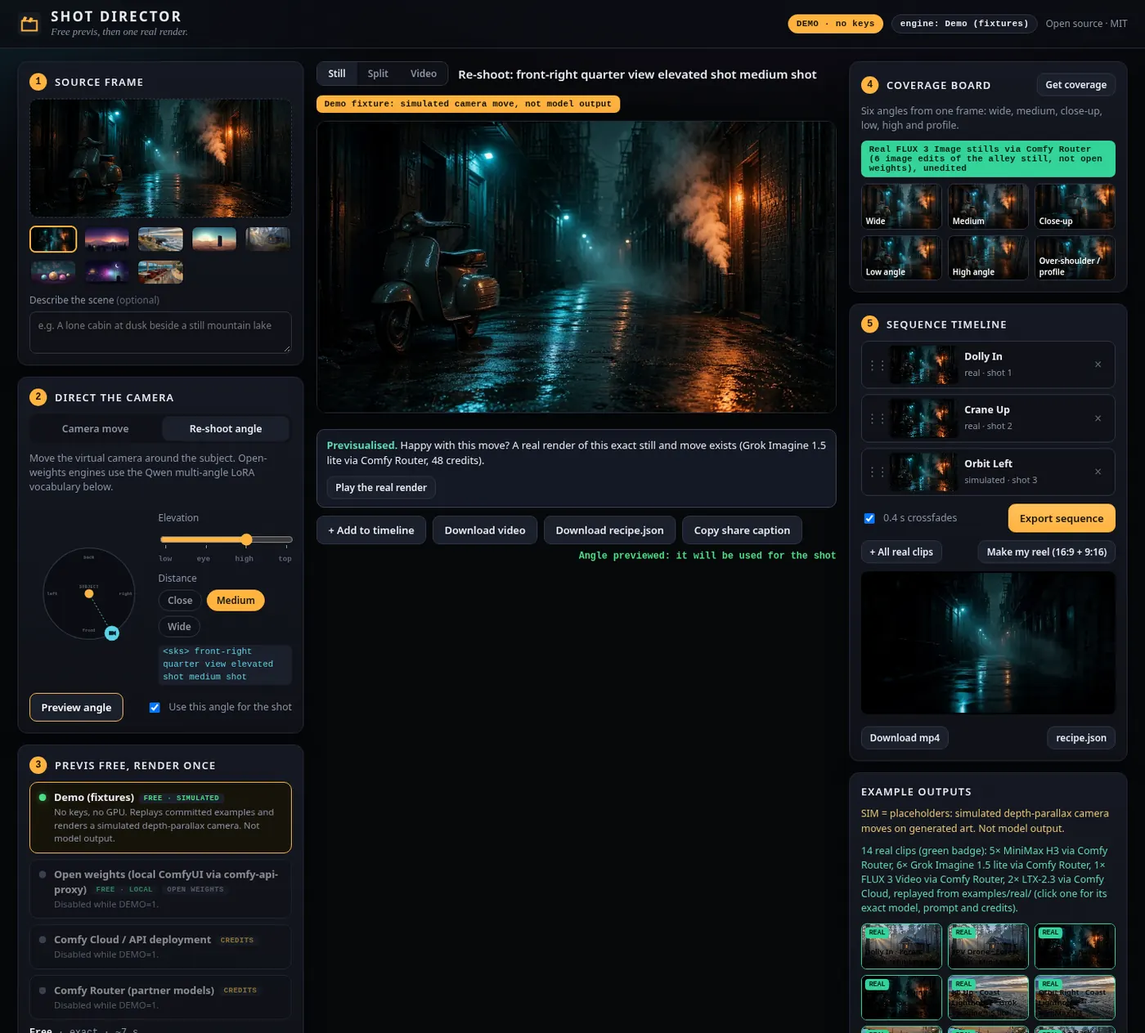
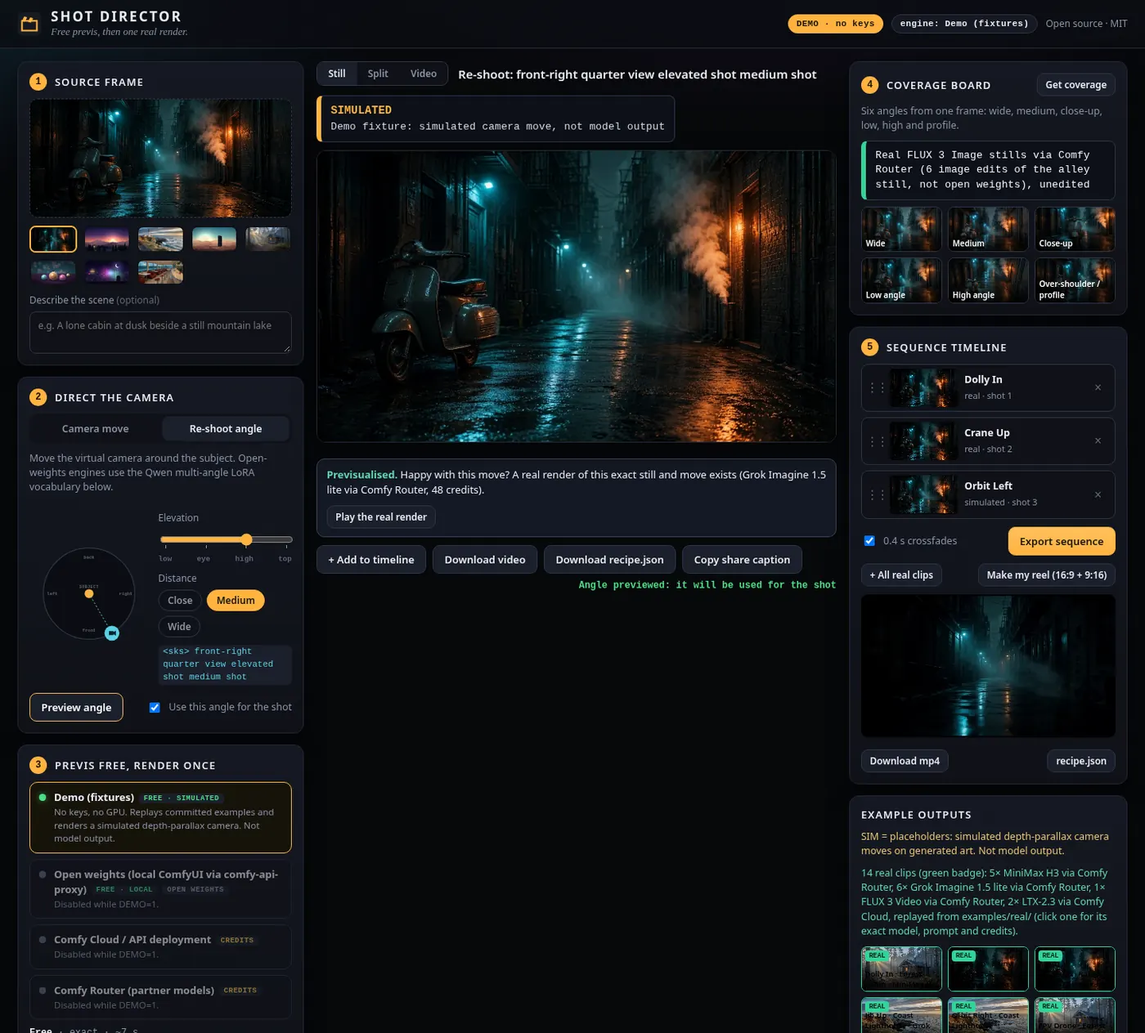
Demo video v3: gallery captions synced per clip, larger 9:16 reel label (2 lines) and player, semi-transparent caption box, larger gallery text, shorter coverage beat; README screenshots retaken in the new popup style

Changed region(s): [[0.2764, 0.0926, 0.9829, 1.0]]

diff --git a/web/app.js b/web/app.js
@@ -386,7 +386,7 @@ async function makeReel() {
     const r = await api("/api/reel", { json: { clips: S.timeline.map(c => c.url), crossfade: $("#xfade").checked ? 0.4 : 0, aspects: ["16:9", "9:16"] } });
     const out = $("#reelOut"); out.replaceChildren();
     for (const reel of r.reels) {
-      out.append(h("div", { class: "reel" }, h("video", { src: reel.url, controls: true, loop: true, muted: true, playsinline: true, style: reel.aspect === "9:16" ? "max-height:340px;aspect-ratio:9/16" : "" }),
+      out.append(h("div", { class: "reel" }, h("video", { src: reel.url, controls: true, loop: true, muted: true, playsinline: true, style: reel.aspect === "9:16" ? "max-height:430px;aspect-ratio:9/16" : "" }),
         h("div", { class: "row" }, h("span", { class: "hint" }, `${reel.aspect}`), h("a", { class: "btn btn-sm", href: reel.url, download: `reel-${reel.aspect.replace(":", "x")}.mp4` }, "Download mp4"), h("a", { class: "btn btn-sm", href: reel.recipe_url, download: "" }, "recipe.json"))));
     }
     out.classList.remove("hidden");

diff --git a/scripts/demo_video.py b/scripts/demo_video.py
@@ -48,10 +48,14 @@ BEATS = [
      "text": "Shot Director is a camera-move studio for Comfy. Preview any move for free with a simulated camera, then spend credits once, on the real render of the move you picked."},
     {"id": "previs", "kind": "ui", "cap": "previs",
      "text": "Pick a still and a move. The free preview is simulated, and the amber badge says so. Happy with it? Play the real render: green badge, MiniMax H3 through the Comfy Router, a partner model, unedited. A hundred and thirty-six credits."},
-    {"id": "gallery", "kind": "ui", "cap": "gallery",
-     "text": "The gallery holds fourteen real clips, with their credits and my honest ratings. Grok lite costs forty-eight credits and is close behind; its orbit is a gentle arc, six out of ten. FLUX 3 Video cost two hundred and twenty-six, and barely moves: four out of ten."},
+    {"id": "gallery", "kind": "ui", "cap": "gallery", "slice": 0,
+     "text": "Fourteen real clips, with their credits and my honest ratings. MiniMax H3: seven out of ten."},
+    {"id": "gallery_b", "kind": "ui", "cap": "gallery", "slice": 1,
+     "text": "Grok lite costs forty-eight credits and is close behind; its orbit is a gentle arc, six out of ten."},
+    {"id": "gallery_c", "kind": "ui", "cap": "gallery", "slice": 2,
+     "text": "FLUX 3 Video cost two hundred and twenty-six credits, and barely moves: four out of ten."},
     {"id": "coverage", "kind": "ui", "cap": "coverage",
-     "text": "Coverage: six real FLUX 3 Image angles of one frame. The A/B player compares the still with the clip."},
+     "text": "Coverage: six real FLUX 3 Image angles of one frame, then an A/B player."},
     {"id": "reel", "kind": "ui", "cap": "reel",
      "text": "Make my reel cuts the real clips into sixteen by nine and nine by sixteen, labelled with the model. No credits spent."},
     {"id": "space", "kind": "ui", "cap": "space",
@@ -68,6 +72,11 @@ MAX_SECONDS = 105.0
 
 def run(cmd: list[str], **kw) -> subprocess.CompletedProcess:
     return subprocess.run(cmd, check=True, **kw)
+
+
+def narr_seconds(work: Path, b: dict) -> float:
+    wav = work / "tts" / f"{b['id']}.wav"
+    return ffprobe_dur(wav) if wav.exists() else max(2.0, len(b["text"].split()) / 2.6)
 
 
 def ffprobe_dur(p: Path) -> float:
@@ -227,6 +236,9 @@ class PollRecorder:
             self.page.screenshot(path=str(self.dir / name), type="jpeg", quality=90, clip={"x": round(self.cur[0]), "y": round(self.cur[1]), "width": CLIP_W, "height": CLIP_H})
             self.frames.append((t, name))
 
+    def now(self) -> float:
+        return time.time() - self.t0 - self.skipped
+
     def pause(self):
         self.paused_at = time.time()
 
@@ -297,16 +309,25 @@ def capture(work: Path, only: set[str] | None = None) -> None:
                 popup_says(pg, "REAL", "MiniMax H3", "FPV Drone", "Forest Cabin", "own rating 7/10", "136 credits")
                 rec.focus(["#stageTitle", "#simBadge", "#stage"], xmin=372); rec.wait(6500)
                 rec.stop(); ctx.close()
-            # ---- gallery: real clips with their own popups (model, move, rating, credits)
+            # ---- gallery: real clips with their own popups (model, move, rating, credits); each clip is held for its own narration beat
             if want("gallery"):
                 ctx, pg = page_for(base); pg.wait_for_selector(".g-item.is-real")
+                pg.add_style_tag(content=".sim-badge{font-size:16px !important;line-height:1.45 !important}.sim-badge .sb-head{font-size:17px !important}")   # video only: larger description text
                 pg.evaluate("window.scrollTo(0, 430)"); pg.wait_for_timeout(300)
-                rec = PollRecorder(pg, work / "cap_gallery"); rec.focus((366, 40), snap=True); rec.wait(1500)
-                for tile, bits, hold in ((("FPV Drone", "Forest Cabin"), ("REAL", "MiniMax H3", "FPV Drone on Forest Cabin", "own rating 7/10", "136 credits"), 3000),
-                                         (("Orbit Left", "Rainy Alley"), ("REAL", "Grok Imagine 1.5 lite", "Orbit Left on Rainy Alley", "own rating 6/10", "48.3 credits"), 3800),
-                                         (("Arc Shot", "Retro Diner"), ("REAL", "FLUX 3 Video", "Arc Shot on Retro Diner", "own rating 4/10", "226 credits"), 3800)):
+                gb = [b for b in BEATS if b.get("cap") == "gallery"]
+                holds = [narr_seconds(work, b) + PAD_AFTER for b in gb]
+                rec = PollRecorder(pg, work / "cap_gallery"); rec.focus((366, 40), snap=True); marks = [0.0]
+                steps = (((("FPV Drone", "Forest Cabin"), ("REAL", "MiniMax H3", "FPV Drone on Forest Cabin", "own rating 7/10", "136 credits")), max(holds[0] - 1.5, 2.0)),
+                         ((("Orbit Left", "Rainy Alley"), ("REAL", "Grok Imagine 1.5 lite", "Orbit Left on Rainy Alley", "own rating 6/10", "48.3 credits")), holds[1]),
+                         ((("Arc Shot", "Retro Diner"), ("REAL", "FLUX 3 Video", "Arc Shot on Retro Diner", "own rating 4/10", "226 credits")), holds[2]))
+                rec.wait(1500)
+                for k, ((tile, bits), hold) in enumerate(steps):
+                    if k:
+                        marks.append(rec.now())
                     pg.evaluate("(t) => { const el=[...document.querySelectorAll('.g-item.is-real')].find(e => e.textContent.includes(t[0]) && e.textContent.includes(t[1])); el.click(); }", list(tile))
-                    popup_says(pg, *bits); rec.wait(hold)
+                    popup_says(pg, *bits); rec.wait(int(hold * 1000))
+                marks.append(rec.now())
+                (work / "cap_gallery.marks.json").write_text(json.dumps(marks))
                 rec.stop(); ctx.close()
             # ---- coverage + A/B
             if want("coverage"):
@@ -315,8 +336,8 @@ def capture(work: Path, only: set[str] | None = None) -> None:
                 pg.evaluate("window.scrollTo(0, 0)"); pg.wait_for_timeout(1200)
                 rec = PollRecorder(pg, work / "cap_coverage"); rec.focus((366, 40), snap=True); rec.wait(700)
                 pg.click("#getCov"); rec.pause(); pg.wait_for_function("() => document.querySelectorAll('#cov .tile.has').length === 6", timeout=120000); rec.resume()
-                rec.wait(2600)
-                pg.click("#abSeg button[data-view=split]"); pg.fill("#wipe", "30"); rec.wait(900); pg.fill("#wipe", "70"); rec.wait(1500)
+                rec.wait(1500)
+                pg.click("#abSeg button[data-view=split]"); pg.fill("#wipe", "30"); rec.wait(700); pg.fill("#wipe", "70"); rec.wait(1000)
                 rec.stop(); ctx.close()
             # ---- make my reel
             if want("reel"):
@@ -325,8 +346,9 @@ def capture(work: Path, only: set[str] | None = None) -> None:
                 rec = PollRecorder(pg, work / "cap_reel"); rec.focus((366, 300), snap=True); rec.wait(700)
                 pg.click("#addReal"); rec.wait(1500)
                 pg.click("#makeReel"); rec.pause(); pg.wait_for_selector("#reelOut:not(.hidden)", timeout=240000); rec.resume()
-                pg.evaluate("document.querySelector('#reelOut').scrollIntoView({block:'center'})"); rec.focus(["#reelOut"], snap=True); rec.wait(500)
-                pg.evaluate("document.querySelectorAll('#reelOut video').forEach(v => { v.muted = true; v.play().catch(()=>{}); })"); rec.wait(4500)
+                pg.evaluate("document.querySelector('#reelOut').scrollIntoView({block:'center'})"); rec.focus(["#reelOut"], snap=True); rec.wait(900)
+                pg.evaluate("document.querySelectorAll('#reelOut video').forEach(v => { v.muted = true; v.play().catch(()=>{}); })")
+                pg.evaluate("document.querySelector('#reelOut .reel:last-child video').scrollIntoView({block:'center'})"); rec.focus(["#reelOut .reel:last-child video"]); rec.wait(4000)   # punch in on the 9:16 reel and its model label
                 rec.stop(); ctx.close()
             # ---- the live static Space
             if want("space"):
@@ -375,7 +397,7 @@ def assemble(work: Path, final: Path) -> dict:
     ass_events = []
     for b in BEATS:
         wav = work / "tts" / f"{b['id']}.wav"
-        nar = ffprobe_dur(wav) if wav.exists() else max(2.0, len(b["text"].split()) / 2.6)
+        nar = narr_seconds(work, b)
         # visual source
         if b["kind"] == "clip":
             src = ROOT / b["src"]; vis = ffprobe_dur(src)
@@ -383,6 +405,10 @@ def assemble(work: Path, final: Path) -> dict:
             src = work / f"card_{b['card']}.png"; vis = 0.0
         else:
             src = work / f"cap_{b['cap']}.mp4"; vis = ffprobe_dur(src)
+            trim = ""
+            if "slice" in b:   # one capture feeds several beats: cut it at the recorded clip changes so each beat shows its own clip
+                mk = json.loads((work / f"cap_{b['cap']}.marks.json").read_text()); a, z = mk[b["slice"]], (mk[b["slice"] + 1] if b["slice"] + 1 < len(mk) else vis)
+                trim = f"trim=start={a:.3f}:end={z:.3f},setpts=PTS-STARTPTS,"; vis = z - a
         dur = max(nar + PAD_AFTER, vis if b["kind"] == "clip" else 0.0) + b.get("tail", 0.0)
         if b["kind"] == "ui":
             dur = max(dur, min(vis, nar + PAD_AFTER + 3.0))     # let a capture run a little past the narration, but never freeze for long
@@ -393,7 +419,7 @@ def assemble(work: Path, final: Path) -> dict:
         elif b["kind"] == "card":
             run(["ffmpeg", "-y", "-loglevel", "error", "-loop", "1", "-framerate", str(FPS), "-i", str(src), "-t", f"{dur:.3f}", "-vf", f"fps={FPS},format=yuv420p", "-c:v", "libx264", "-crf", "17", "-preset", "fast", str(seg)])
         else:
-            vf = f"tpad=stop_mode=clone:stop_duration={max(dur - vis, 0) + 0.1:.2f},pad={W}:{H}:0:0:black,fps={FPS},format=yuv420p"
+            vf = f"{trim}tpad=stop_mode=clone:stop_duration={max(dur - vis, 0) + 0.1:.2f},pad={W}:{H}:0:0:black,fps={FPS},format=yuv420p"
             run(["ffmpeg", "-y", "-loglevel", "error", "-i", str(src), "-an", "-vf", vf, "-t", f"{dur:.3f}", "-c:v", "libx264", "-crf", "17", "-preset", "fast", str(seg)])
         segs.append(seg)
         # captions: split the narration over the narration time, weighted by characters
@@ -419,7 +445,7 @@ WrapStyle: 0
 
 [V4+ Styles]
 Format: Name, Fontname, Fontsize, PrimaryColour, SecondaryColour, OutlineColour, BackColour, Bold, Italic, Underline, StrikeOut, ScaleX, ScaleY, Spacing, Angle, BorderStyle, Outline, Shadow, Alignment, MarginL, MarginR, MarginV, Encoding
-Style: Cap,DejaVu Sans,29,&H00FFFFFF,&H000000FF,&H00000000,&H00000000,0,0,0,0,100,100,0,0,1,0,0,2,40,40,16,1
+Style: Cap,DejaVu Sans,29,&H00FFFFFF,&H000000FF,&H70101010,&H70101010,0,0,0,0,100,100,0,0,3,9,0,2,40,40,18,1
 Style: Real,DejaVu Sans,30,&H00FFFFFF,&H000000FF,&H00180F0C,&H00180F0C,1,0,0,0,100,100,0,0,3,10,0,7,24,24,22,1
 Style: Sim,DejaVu Sans,30,&H00FFFFFF,&H000000FF,&H00180F0C,&H00180F0C,1,0,0,0,100,100,0,0,3,10,0,7,24,24,22,1
 

diff --git a/app/stitch.py b/app/stitch.py
@@ -30,9 +30,17 @@ def _norm_chain(i: int, width: int, height: int, fps: int, label: str | None, ve
     else:
         chain = f"[{i}:v]scale={width}:{height}:force_original_aspect_ratio=decrease,pad={width}:{height}:(ow-iw)/2:(oh-ih)/2:color=black,setsar=1,fps={fps}"
     if label:
-        size = max(18, height // (46 if vertical else 36))
-        y = f"h-th-{int(height * (0.1 if vertical else 0.04))}"
-        chain += f",drawtext=text='{_esc(label)}':x=(w-text_w)/2:y={y}:fontsize={size}:fontcolor=white:box=1:boxcolor=black@0.6:boxborderw=10" if vertical else f",drawtext=text='{_esc(label)}':x=24:y={y}:fontsize={size}:fontcolor=white:box=1:boxcolor=black@0.6:boxborderw=10"
+        if vertical:
+            # two lines ("REAL: model" / "via platform") so the label can be big on a 720 px wide frame
+            label = label.replace(" via ", "\nvia ", 1)
+            longest = max(len(x) for x in label.split("\n"))
+            size = max(18, min(height // 30, int(0.88 * width / (0.62 * longest))))
+            y = f"h-th-{int(height * 0.16)}"
+            chain += f",drawtext=text='{_esc(label)}':x=(w-text_w)/2:y={y}:fontsize={size}:fontcolor=white:line_spacing=6:box=1:boxcolor=black@0.7:boxborderw=12"
+        else:
+            size = max(18, height // 36)
+            y = f"h-th-{int(height * 0.04)}"
+            chain += f",drawtext=text='{_esc(label)}':x=24:y={y}:fontsize={size}:fontcolor=white:box=1:boxcolor=black@0.6:boxborderw=10"
     return chain + f",format=yuv420p[v{i}]"
 
 

diff --git a/tests/test_stitch.py b/tests/test_stitch.py
@@ -34,6 +34,7 @@ def test_reel_aspects_and_labels():
     v = build_command(clips, [5.0, 5.0], Path("o.mp4"), crossfade=0.4, aspect="9:16", labels=["REAL: MiniMax H3 via Comfy Router", "SIMULATED previs"])
     g = _g(v)
     assert "720:1280" in g and "boxblur" in g and g.count("drawtext") == 2 and "overlay" in g
+    assert "\nvia Comfy Router" in g and "fontsize=" in g   # the vertical label is split over two lines so it can be large
     h = build_command(clips, [5.0, 5.0], Path("o.mp4"), aspect="16:9", labels=["a", "b"])
     assert "1280:720" in _g(h) and _g(h).count("drawtext") == 2 and "concat=n=2" in _g(h)
     assert "drawtext" not in _g(build_command(clips, [5.0, 5.0], Path("o.mp4"), aspect="16:9"))

diff --git a/docs/DEMO_VIDEO_PLAN.md b/docs/DEMO_VIDEO_PLAN.md
@@ -1,6 +1,6 @@
-# Demo video: plan and as-built (v2, 96 s, limit 1:45; entry limit 2:00)
+# Demo video: plan and as-built (v3, 96 s, limit 1:45; entry limit 2:00)
 
-Status: **v2 built** (free, local, no credits spent) with `scripts/make_demo_video.sh`. Entry rules: 2 minutes maximum, judged on the work (usable UI, example outputs, how it is built), not polish. The **honesty rules**, the "what not to say" list and the social-post draft live in [DEMO_SCRIPT.md](DEMO_SCRIPT.md) and apply here. The video is not posted or submitted by the builder: the owner submits it under their own name.
+Status: **v3 built** (free, local, no credits spent) with `scripts/make_demo_video.sh`. Entry rules: 2 minutes maximum, judged on the work (usable UI, example outputs, how it is built), not polish. The **honesty rules**, the "what not to say" list and the social-post draft live in [DEMO_SCRIPT.md](DEMO_SCRIPT.md) and apply here. The video is not posted or submitted by the builder: the owner submits it under their own name.
 
 **The story:** *free previs, then one real render.* Open on real outputs, show the app flow, then the platform/build beat, end on the two links.
 
@@ -31,6 +31,15 @@ So the repo's MIT label does not clearly cover the voice: the training data is r
 4. **Slides.** The platform slide has four big facts; the credit log shows one row per model with the real per-clip figure ("Grok Imagine lite · 6 clips: ~33 to 48 credits each, depending on resolution").
 5. **Space fix kept from v1:** images load with `crossOrigin` so the WebGL previs works behind the Hugging Face CDN redirect.
 
+## Changes in v3 (final polish)
+
+1. **Caption sync.** The gallery is now three beats (one per clip), each with its own narration; the capture is cut at the recorded clip changes, so "six out of ten" finishes over the Grok lite alley clip before the cut to the diner.
+2. **9:16 reel label.** The label burned into the vertical reel is now two lines ("REAL: model" / "via platform") at about 1.5x the size, and the reel beat punches in on the vertical player (also a little taller, 430 px).
+3. **Captions** sit on a semi-transparent dark box.
+4. **Gallery description text** is larger in the recording (video-only CSS).
+5. **Coverage beat** is about 1.5 s shorter (shorter narration and waits).
+6. README screenshots and the flow GIF were retaken in the new popup style (webp, small).
+
 ## Deviations from the first plan (1:50, README-first)
 
 * The cut **opens on the real hero clip** (within 5 s) instead of a title card; the build/platform beat and the credit log are cards.
@@ -55,29 +64,33 @@ Never claim: camera-LoRA results (none exist), that the open-weights or Cloud en
 |---|---|---|---|---|
 | 1 | 0:00.0 to 0:05.2 | REAL footage, full frame: `forest-cabin__fpv-drone__router-minimax-h3.mp4` (MiniMax H3 via the Comfy Router, unedited, cropped from 1280x732 to 1280x720 only). Dark label with the clip's facts (model, move, own rating 7/10, 135.78 credits). | One still. One real render. This is Shot Director. (9 words) | Label names model, move, rating, credits, "unedited" |
 | 2 | 0:05.2 to 0:15.0 | Card: still -> free previs (amber, simulated) -> one real render (green). | Shot Director is a camera-move studio for Comfy. Preview any move for free with a simulated camera, then spend credits once, on the real render of the move you picked. (30 words) | Green = real, amber = simulated |
-| 3 | 0:15.0 to 0:30.3 | UI capture, local Demo app, punched in 1.4x: Forest Cabin -> FPV Drone -> Previs this shot (free) -> amber SIMULATED popup and callout -> Play the real render (green REAL popup with model, move, rating 7/10, 136 credits). | Pick a still and a move. The free preview is simulated, and the amber badge says so. Happy with it? Play the real render: green badge, MiniMax H3 through the Comfy Router, a partner model, unedited. A hundred and thirty-six credits. (41 words) | SIMULATED popup, then REAL popup, both on screen |
-| 4 | 0:30.3 to 0:46.0 | UI capture (1.4x): Example outputs gallery; clicks FPV Drone (H3, 7/10), Orbit Left (Grok lite, 6/10) and the FLUX 3 Video arc (4/10). The popup is built from the selected clip's own data (checked in the recording script and by `tests/test_popup_ui.py`). | The gallery holds fourteen real clips, with their credits and my honest ratings. Grok lite costs forty-eight credits and is close behind; its orbit is a gentle arc, six out of ten. FLUX 3 Video cost two hundred and twenty-six, and barely moves: four out of ten. (47 words) | Each popup shows that clip's model, move, rating, credits |
-| 5 | 0:46.0 to 0:53.1 | UI capture (1.4x): Rainy Alley, Get coverage (real FLUX 3 Image board, green), then the A/B split wipe. | Coverage: six real FLUX 3 Image angles of one frame. The A/B player compares the still with the clip. (19 words) | Green board popup; the stage clip keeps its own popup |
-| 6 | 0:53.1 to 1:01.8 | UI capture (1.4x): + All real clips, Make my reel; the 16:9 and 9:16 outputs play. | Make my reel cuts the real clips into sixteen by nine and nine by sixteen, labelled with the model. No credits spent. (22 words) | Real clips only, labelled with the model, no credits |
-| 7 | 1:01.8 to 1:09.2 | UI capture (1.4x) of the live static Space (https://bolttmade-shot-director.static.hf.space/): in-browser WebGL previs (SIMULATED), then Play the real render (REAL popup with the clip's facts). | It also runs free in your browser, as a static Hugging Face Space. (13 words) | SIMULATED and REAL popups |
-| 8 | 1:09.2 to 1:18.2 | Card: four facts: 14 real clips, 4 Router models, 100+ tests and CI green, cap + confirm. | Under the hood: the Comfy Router API and SDK, one capped, confirmed submit per request, a hundred tests, and green CI. (21 words) | No claim beyond what ran |
-| 9 | 1:18.2 to 1:29.1 | Card: credits spent by model (about 1,310 in total, Grok lite clips ~33 to 48 credits each depending on resolution), every request id in docs/COSTS.md. | Every credit is logged with its request id: about thirteen hundred in total. The open-weights and Cloud engines are contract-tested only, and no camera LoRA result exists. (27 words) | Numbers match docs/COSTS.md |
-| 10 | 1:29.1 to 1:35.9 | End card: github.com/bolttmade/shot-director and huggingface.co/spaces/BoltTmade/shot-director. | Shot Director. Open source, on GitHub and Hugging Face. (9 words) | Only the bolt / bolttmade / BoltTmade identity |
+| 3 | 0:15.0 to 0:29.9 | UI capture, local Demo app, punched in 1.4x: Forest Cabin -> FPV Drone -> Previs this shot (free) -> amber SIMULATED popup and callout -> Play the real render (green REAL popup with model, move, rating 7/10, 136 credits). | Pick a still and a move. The free preview is simulated, and the amber badge says so. Happy with it? Play the real render: green badge, MiniMax H3 through the Comfy Router, a partner model, unedited. A hundred and thirty-six credits. (41 words) | SIMULATED popup, then REAL popup, both on screen |
+| 4 | 0:29.9 to 0:36.7 | UI capture (1.4x): Example outputs gallery, clip 1 of 3: FPV Drone (H3, 7/10). The popup is built from the selected clip's own data (checked in the recording script and by `tests/test_popup_ui.py`). | Fourteen real clips, with their credits and my honest ratings. MiniMax H3: seven out of ten. (16 words) | Each popup shows that clip's model, move, rating, credits |
+| 5 | 0:36.7 to 0:43.1 | Same capture, cut at the recorded click: Orbit Left on Rainy Alley (Grok lite, 6/10, 48.3 credits). | Grok lite costs forty-eight credits and is close behind; its orbit is a gentle arc, six out of ten. (19 words) | Popup shows Grok lite facts |
+| 6 | 0:43.1 to 0:48.9 | Same capture, next click: Arc Shot on Retro Diner (FLUX 3 Video, 4/10, 226 credits). | FLUX 3 Video cost two hundred and twenty-six credits, and barely moves: four out of ten. (16 words) | Popup shows FLUX 3 Video facts |
+| 7 | 0:48.9 to 0:54.4 | UI capture (1.4x): Rainy Alley, Get coverage (real FLUX 3 Image board, green), then the A/B split wipe. | Coverage: six real FLUX 3 Image angles of one frame, then an A/B player. (14 words) | Green board popup; the stage clip keeps its own popup |
+| 8 | 0:54.4 to 1:03.0 | UI capture (1.4x): + All real clips, Make my reel; the 16:9 and 9:16 outputs play. | Make my reel cuts the real clips into sixteen by nine and nine by sixteen, labelled with the model. No credits spent. (22 words) | Real clips only, labelled with the model, no credits |
+| 9 | 1:03.0 to 1:10.2 | UI capture (1.4x) of the live static Space (https://bolttmade-shot-director.static.hf.space/): in-browser WebGL previs (SIMULATED), then Play the real render (REAL popup with the clip's facts). | It also runs free in your browser, as a static Hugging Face Space. (13 words) | SIMULATED and REAL popups |
+| 10 | 1:10.2 to 1:18.8 | Card: four facts: 14 real clips, 4 Router models, 100+ tests and CI green, cap + confirm. | Under the hood: the Comfy Router API and SDK, one capped, confirmed submit per request, a hundred tests, and green CI. (21 words) | No claim beyond what ran |
+| 11 | 1:18.8 to 1:29.5 | Card: credits spent by model (about 1,310 in total, Grok lite clips ~33 to 48 credits each depending on resolution), every request id in docs/COSTS.md. | Every credit is logged with its request id: about thirteen hundred in total. The open-weights and Cloud engines are contract-tested only, and no camera LoRA result exists. (27 words) | Numbers match docs/COSTS.md |
+| 12 | 1:29.5 to 1:36.3 | End card: github.com/bolttmade/shot-director and huggingface.co/spaces/BoltTmade/shot-director. | Shot Director. Open source, on GitHub and Hugging Face. (9 words) | Only the bolt / bolttmade / BoltTmade identity |
 
-Total 95.9 s, 238 narrated words. Each beat lasts as long as its narration (plus 0.45 s), a real clip is never shortened, and a short freeze fills a capture that ends early.
+Total 96.3 s, 237 narrated words. Each beat lasts as long as its narration (plus 0.45 s), a real clip is never shortened, and a short freeze fills a capture that ends early.
 
 ## Voice-over script
 
 **1 (0:00.0)** One still. One real render. This is Shot Director.
 **2 (0:05.2)** Shot Director is a camera-move studio for Comfy. Preview any move for free with a simulated camera, then spend credits once, on the real render of the move you picked.
 **3 (0:15.0)** Pick a still and a move. The free preview is simulated, and the amber badge says so. Happy with it? Play the real render: green badge, MiniMax H3 through the Comfy Router, a partner model, unedited. A hundred and thirty-six credits.
-**4 (0:30.3)** The gallery holds fourteen real clips, with their credits and my honest ratings. Grok lite costs forty-eight credits and is close behind; its orbit is a gentle arc, six out of ten. FLUX 3 Video cost two hundred and twenty-six, and barely moves: four out of ten.
-**5 (0:46.0)** Coverage: six real FLUX 3 Image angles of one frame. The A/B player compares the still with the clip.
-**6 (0:53.1)** Make my reel cuts the real clips into sixteen by nine and nine by sixteen, labelled with the model. No credits spent.
-**7 (1:01.8)** It also runs free in your browser, as a static Hugging Face Space.
-**8 (1:09.2)** Under the hood: the Comfy Router API and SDK, one capped, confirmed submit per request, a hundred tests, and green CI.
-**9 (1:18.2)** Every credit is logged with its request id: about thirteen hundred in total. The open-weights and Cloud engines are contract-tested only, and no camera LoRA result exists.
-**10 (1:29.1)** Shot Director. Open source, on GitHub and Hugging Face.
+**4 (0:29.9)** Fourteen real clips, with their credits and my honest ratings. MiniMax H3: seven out of ten.
+**5 (0:36.7)** Grok lite costs forty-eight credits and is close behind; its orbit is a gentle arc, six out of ten.
+**6 (0:43.1)** FLUX 3 Video cost two hundred and twenty-six credits, and barely moves: four out of ten.
+**7 (0:48.9)** Coverage: six real FLUX 3 Image angles of one frame, then an A/B player.
+**8 (0:54.4)** Make my reel cuts the real clips into sixteen by nine and nine by sixteen, labelled with the model. No credits spent.
+**9 (1:03.0)** It also runs free in your browser, as a static Hugging Face Space.
+**10 (1:10.2)** Under the hood: the Comfy Router API and SDK, one capped, confirmed submit per request, a hundred tests, and green CI.
+**11 (1:18.8)** Every credit is logged with its request id: about thirteen hundred in total. The open-weights and Cloud engines are contract-tested only, and no camera LoRA result exists.
+**12 (1:29.5)** Shot Director. Open source, on GitHub and Hugging Face.
 
 Say the credit numbers only if they agree with the repo (H3 135.78, Grok lite 48.28 at 720p, FLUX 3 Video 226.3, coverage 86.9; total about 1,310).
 

diff --git a/docs/DEMO_SCRIPT.md b/docs/DEMO_SCRIPT.md
@@ -16,7 +16,7 @@
 
 ## Storyboard
 
-See [DEMO_VIDEO_PLAN.md](DEMO_VIDEO_PLAN.md#as-built-shot-list) (ten beats, about 240 spoken words, built by `scripts/make_demo_video.sh`). Summary: real hero clip first, concept, free previs then the real render, gallery comparison across models, real FLUX 3 coverage with A/B, Make my reel, the Space, the platform facts, the credit log and the end card. The captions-only file is the primary cut (the piper voice's data licence is research-only, see the plan).
+See [DEMO_VIDEO_PLAN.md](DEMO_VIDEO_PLAN.md#as-built-shot-list) (twelve beats, about 235 spoken words, built by `scripts/make_demo_video.sh`). Summary: real hero clip first, concept, free previs then the real render, gallery comparison across models, real FLUX 3 coverage with A/B, Make my reel, the Space, the platform facts, the credit log and the end card. The captions-only file is the primary cut (the piper voice's data licence is research-only, see the plan).
 
 ## What not to say
 
